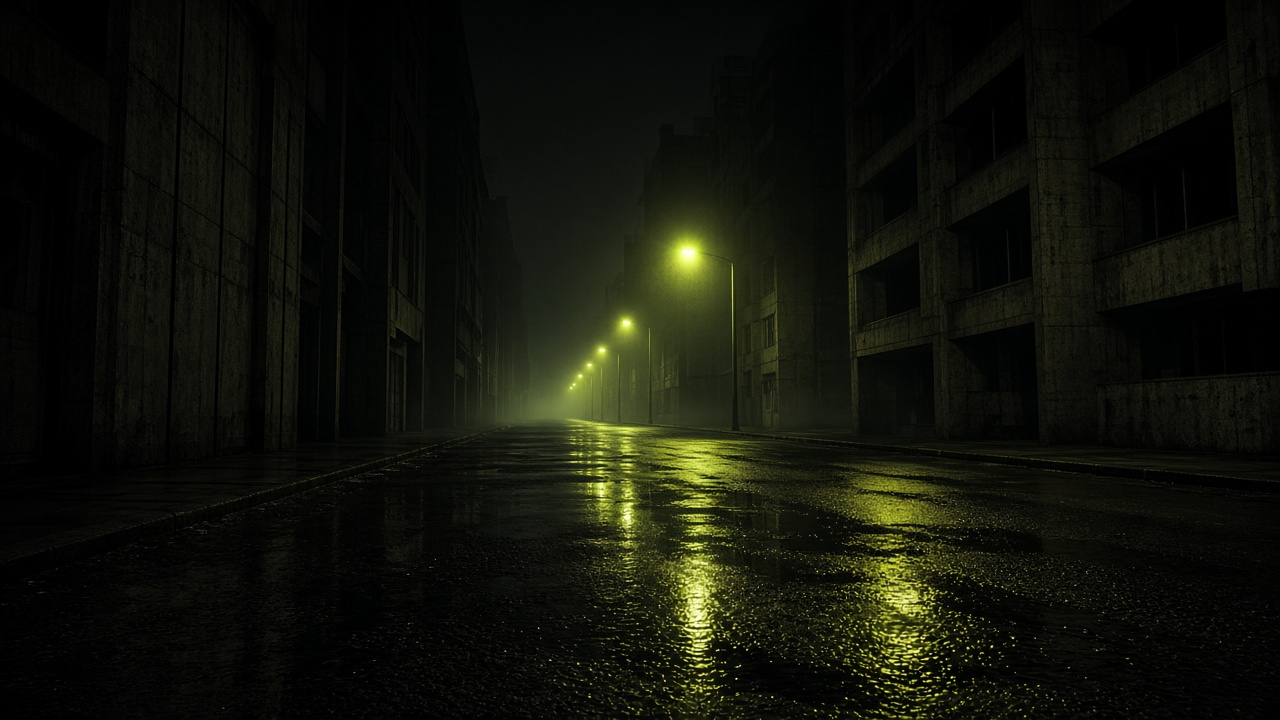
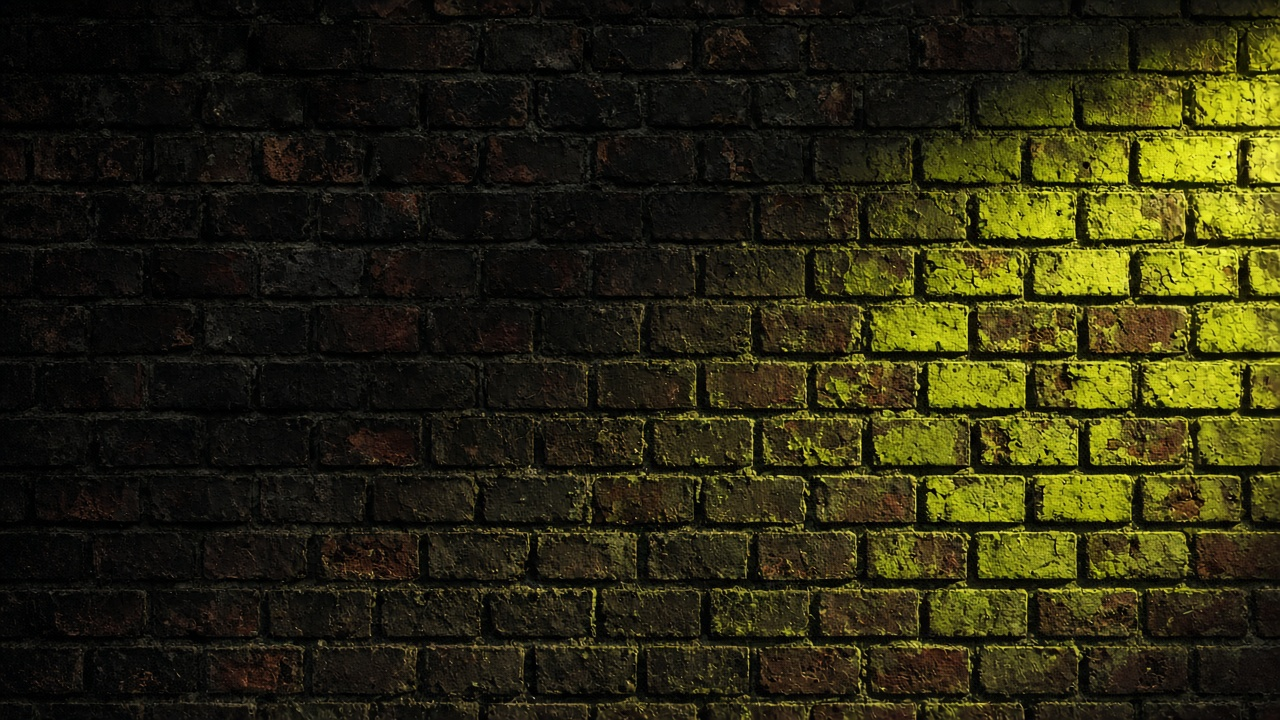
Sostituisci lo sfondo strada con un muro di mattoni.
La texture resta fissa dietro ogni pagina, con lo stesso velo nero e la stessa grana da fotocopia.

diff --git a/carrello.html b/carrello.html
@@ -10,7 +10,7 @@
     <link rel="preconnect" href="https://fonts.googleapis.com" />
     <link rel="preconnect" href="https://fonts.gstatic.com" crossorigin />
     <link href="https://fonts.googleapis.com/css2?family=Cormorant+Garamond:ital,wght@0,500;0,600;1,500&family=Outfit:wght@300;400;500;600&family=Syne:wght@600;700&display=swap" rel="stylesheet" />
-    <link rel="stylesheet" href="styles.css?v=20261024a" />
+    <link rel="stylesheet" href="styles.css?v=20261024b" />
   </head>
   <body>
     <a class="skip-link" href="#contenuto">Vai al contenuto</a>

diff --git a/checkout.html b/checkout.html
@@ -10,7 +10,7 @@
     <link rel="preconnect" href="https://fonts.googleapis.com" />
     <link rel="preconnect" href="https://fonts.gstatic.com" crossorigin />
     <link href="https://fonts.googleapis.com/css2?family=Cormorant+Garamond:ital,wght@0,500;0,600;1,500&family=Outfit:wght@300;400;500;600&family=Syne:wght@600;700&display=swap" rel="stylesheet" />
-    <link rel="stylesheet" href="styles.css?v=20261024a" />
+    <link rel="stylesheet" href="styles.css?v=20261024b" />
   </head>
   <body>
     <a class="skip-link" href="#contenuto">Vai al contenuto</a>

diff --git a/home.html b/home.html
@@ -10,7 +10,7 @@
     <link rel="preconnect" href="https://fonts.googleapis.com" />
     <link rel="preconnect" href="https://fonts.gstatic.com" crossorigin />
     <link href="https://fonts.googleapis.com/css2?family=Cormorant+Garamond:ital,wght@0,500;0,600;1,500&family=Outfit:wght@300;400;500;600&family=Syne:wght@600;700&display=swap" rel="stylesheet" />
-    <link rel="stylesheet" href="styles.css?v=20261024a" />
+    <link rel="stylesheet" href="styles.css?v=20261024b" />
   </head>
   <body>
     <a class="skip-link" href="#contenuto">Vai al contenuto</a>

diff --git a/lab.html b/lab.html
@@ -10,7 +10,7 @@
     <link rel="preconnect" href="https://fonts.googleapis.com" />
     <link rel="preconnect" href="https://fonts.gstatic.com" crossorigin />
     <link href="https://fonts.googleapis.com/css2?family=Cormorant+Garamond:ital,wght@0,500;0,600;1,500&family=Outfit:wght@300;400;500;600&family=Syne:wght@600;700&display=swap" rel="stylesheet" />
-    <link rel="stylesheet" href="styles.css?v=20261024a" />
+    <link rel="stylesheet" href="styles.css?v=20261024b" />
   </head>
   <body>
     <a class="skip-link" href="#contenuto">Vai al contenuto</a>

diff --git a/marchio.html b/marchio.html
@@ -10,7 +10,7 @@
     <link rel="preconnect" href="https://fonts.googleapis.com" />
     <link rel="preconnect" href="https://fonts.gstatic.com" crossorigin />
     <link href="https://fonts.googleapis.com/css2?family=Cormorant+Garamond:ital,wght@0,500;0,600;1,500&family=Outfit:wght@300;400;500;600&family=Syne:wght@600;700&display=swap" rel="stylesheet" />
-    <link rel="stylesheet" href="styles.css?v=20261024a" />
+    <link rel="stylesheet" href="styles.css?v=20261024b" />
   </head>
   <body>
     <a class="skip-link" href="#contenuto">Vai al contenuto</a>

diff --git a/negozio.html b/negozio.html
@@ -10,7 +10,7 @@
     <link rel="preconnect" href="https://fonts.googleapis.com" />
     <link rel="preconnect" href="https://fonts.gstatic.com" crossorigin />
     <link href="https://fonts.googleapis.com/css2?family=Cormorant+Garamond:ital,wght@0,500;0,600;1,500&family=Outfit:wght@300;400;500;600&family=Syne:wght@600;700&display=swap" rel="stylesheet" />
-    <link rel="stylesheet" href="styles.css?v=20261024a" />
+    <link rel="stylesheet" href="styles.css?v=20261024b" />
   </head>
   <body>
     <a class="skip-link" href="#contenuto">Vai al contenuto</a>

diff --git a/old-school/index.html b/old-school/index.html
@@ -11,7 +11,7 @@
     <link rel="preconnect" href="https://fonts.googleapis.com" />
     <link rel="preconnect" href="https://fonts.gstatic.com" crossorigin />
     <link href="https://fonts.googleapis.com/css2?family=Cormorant+Garamond:ital,wght@0,500;0,600;1,500&family=Outfit:wght@300;400;500;600&family=Syne:wght@600;700&display=swap" rel="stylesheet" />
-    <link rel="stylesheet" href="styles.css?v=20261024a" />
+    <link rel="stylesheet" href="styles.css?v=20261024b" />
   </head>
   <body>
     <a class="skip-link" href="#contenuto">Vai al contenuto</a>

diff --git a/prodotto.html b/prodotto.html
@@ -10,7 +10,7 @@
     <link rel="preconnect" href="https://fonts.googleapis.com" />
     <link rel="preconnect" href="https://fonts.gstatic.com" crossorigin />
     <link href="https://fonts.googleapis.com/css2?family=Cormorant+Garamond:ital,wght@0,500;0,600;1,500&family=Outfit:wght@300;400;500;600&family=Syne:wght@600;700&display=swap" rel="stylesheet" />
-    <link rel="stylesheet" href="styles.css?v=20261024a" />
+    <link rel="stylesheet" href="styles.css?v=20261024b" />
   </head>
   <body>
     <a class="skip-link" href="#contenuto">Vai al contenuto</a>

diff --git a/resi/index.html b/resi/index.html
@@ -11,7 +11,7 @@
     <link rel="preconnect" href="https://fonts.googleapis.com" />
     <link rel="preconnect" href="https://fonts.gstatic.com" crossorigin />
     <link href="https://fonts.googleapis.com/css2?family=Cormorant+Garamond:ital,wght@0,500;0,600;1,500&family=Outfit:wght@300;400;500;600&family=Syne:wght@600;700&display=swap" rel="stylesheet" />
-    <link rel="stylesheet" href="styles.css?v=20261024a" />
+    <link rel="stylesheet" href="styles.css?v=20261024b" />
   </head>
   <body>
     <a class="skip-link" href="#contenuto">Vai al contenuto</a>

diff --git a/index.html b/index.html
@@ -10,7 +10,7 @@
     <link rel="preconnect" href="https://fonts.googleapis.com" />
     <link rel="preconnect" href="https://fonts.gstatic.com" crossorigin />
     <link href="https://fonts.googleapis.com/css2?family=Cormorant+Garamond:ital,wght@0,500;0,600;1,500&family=Outfit:wght@300;400;500;600&family=Syne:wght@600;700&display=swap" rel="stylesheet" />
-    <link rel="stylesheet" href="styles.css?v=20261024a" />
+    <link rel="stylesheet" href="styles.css?v=20261024b" />
   </head>
   <body>
     <main class="landing">

diff --git a/styles.css b/styles.css
@@ -35,7 +35,7 @@ body::after {
   background-color: #070707;
   background-image:
     linear-gradient(180deg, rgba(7, 7, 7, 0.8) 0%, rgba(7, 7, 7, 0.64) 42%, rgba(7, 7, 7, 0.82) 100%),
-    url("assets/street.jpg");
+    url("assets/street.jpg?v=mattone");
   background-size: cover;
   background-position: center;
   background-repeat: no-repeat;
